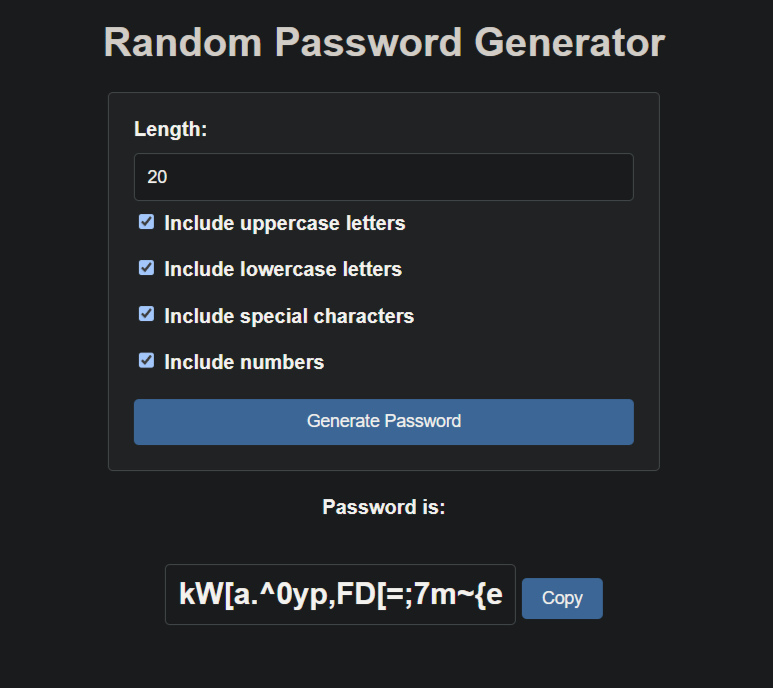
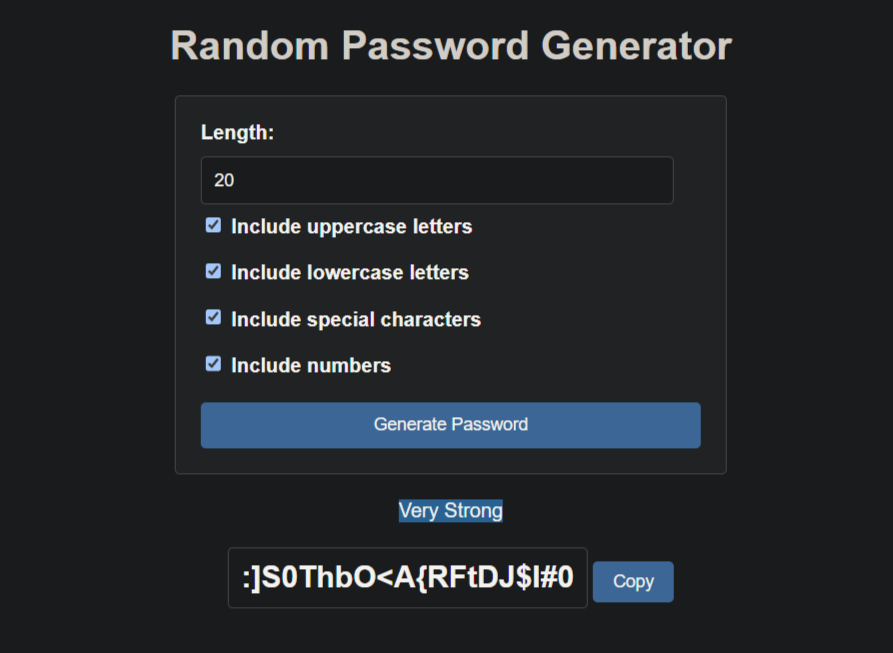
Add password difficulty

Changed region(s): [[0.1552, 0.1531, 0.8383, 0.9495], [0.1242, 0.0306, 0.8693, 0.0919]]

diff --git a/static/styles.css b/static/styles.css
@@ -1,3 +1,10 @@
+/* Password Strength Meter Colors */
+.strength-0 { background-color: #ff9999; } /* Weak */
+.strength-1 { background-color: #ffcc66; } /* Medium */
+.strength-2 { background-color: #ffff99; } /* Good */
+.strength-3 { background-color: #99ff99; } /* Strong */
+.strength-4 { background-color: #66ccff; } /* Very Strong */
+
 body {
     font-family: Arial, sans-serif;
 }
@@ -24,7 +31,7 @@ label {
 
 input[type="number"],
 input[type="text"] {
-    width: 100%;
+    width: calc(100% - 22px); /* Adjust width to account for padding and border */
     padding: 10px;
     border: 1px solid #ccc;
     border-radius: 4px;
@@ -65,10 +72,6 @@ input[type="submit"] {
     margin-top: 20px;
 }
 
-.password-label {
-    font-weight: bold;
-}
-
 .copy-button {
     display: inline-block;
     padding: 8px 16px;
@@ -79,4 +82,12 @@ input[type="submit"] {
     color: #fff;
     font-size: 14px;
     cursor: pointer;
+}
+
+#passwordStrength {
+    display: block;
+    margin: 0 auto;
+    text-align: center;
+    width: fit-content; /* Adjust width to fit content */
+    margin-top: 10px; /* Add margin to separate from other content */
 }

diff --git a/templates/index.html b/templates/index.html
@@ -38,7 +38,7 @@
 
 {% if password %}
 <div class="password-container">
-    <p class="password-label">Password is:</p>
+    <div id="passwordStrength" class="strength-{{ password_difficulty_score }}"> {{ password_difficulty_text }}</div>
     <div class="generated-password" id="password-box">{{ password }}</div>
     <button class="copy-button" onclick="copyPassword(this)">Copy</button>
 </div>

diff --git a/app.py b/app.py
@@ -1,8 +1,17 @@
 from flask import Flask, render_template, request
 import random
 import string
+from zxcvbn import zxcvbn
 
 app = Flask(__name__)
+
+password_difficulty_text = {
+    0: 'Weak',
+    1: 'Medium',
+    2: 'Good',
+    3: 'Strong',
+    4: 'Very Strong'
+}
 
 
 def generate_password(password_length, include_uppercase, include_lowercase, include_numbers, include_special_chars):
@@ -28,11 +37,23 @@ def home():
         include_numbers = request.form.get('numbers')
         include_special_chars = request.form.get('special_chars')
 
-        password = generate_password(password_length, include_uppercase,
-                                     include_lowercase, include_numbers,
-                                     include_special_chars)
+        password = generate_password(
+            password_length,
+            include_uppercase,
+            include_lowercase,
+            include_numbers,
+            include_special_chars
+        )
 
-        return render_template('index.html', password=password, password_length=password_length)
+        difficulty_password_result = zxcvbn(password)
+        password_difficulty_score = difficulty_password_result['score']
+
+        return render_template('index.html',
+                               password=password,
+                               password_length=password_length,
+                               password_difficulty_score=password_difficulty_score,
+                               password_difficulty_text=password_difficulty_text[password_difficulty_score]
+                               )
 
     return render_template('index.html')
 
